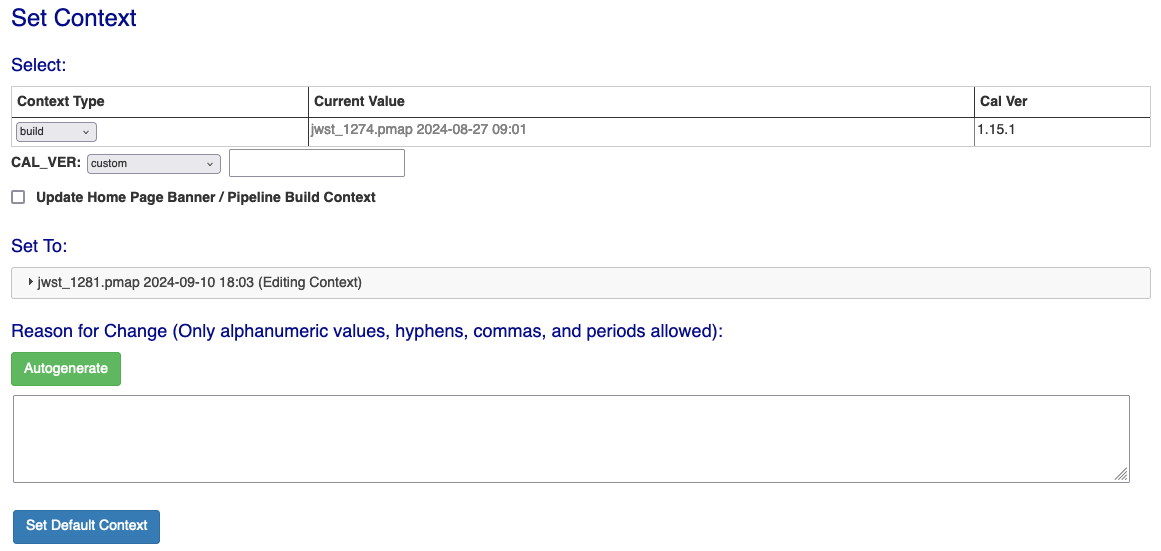
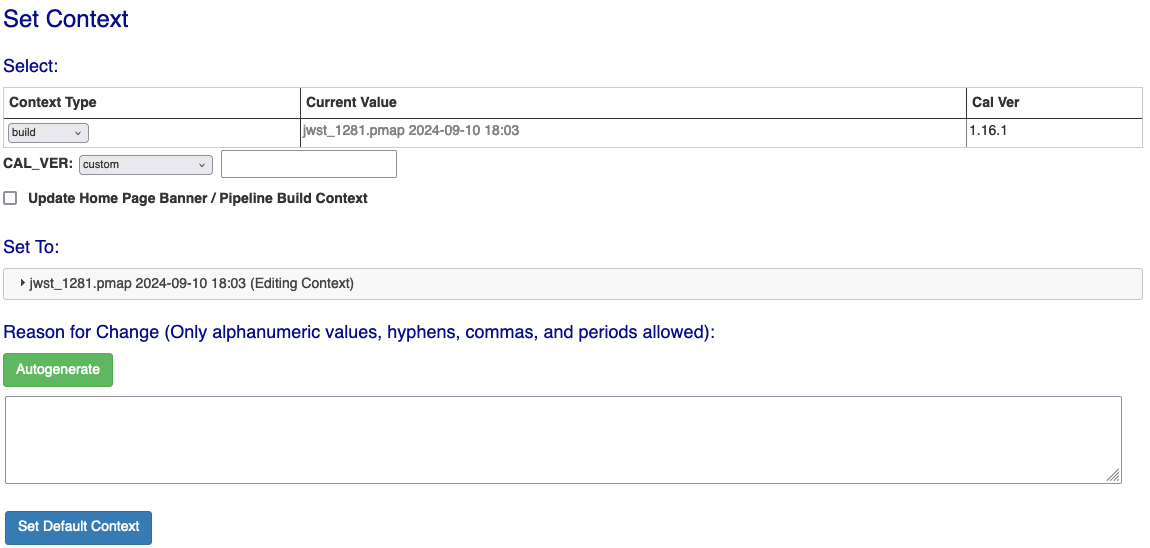
Added several more images and updates for build context.

diff --git a/documentation/crds_users_guide/source/web_site_use.rst b/documentation/crds_users_guide/source/web_site_use.rst
@@ -27,8 +27,23 @@ For HST
    :alt: hst home page of CRDS website
 
 
+
+<--Applicable only to JWST and RST
+
 Build Context Banner
 ----------------------
+The Build Context Banner displays the CRDS Context that was delivered with a DMS build, and
+is guaranteed to work with that build. It will be the latest context when a DMS build is installed,
+but will not be the most current after references get delivered and the latest context is updated.
+
+Clicking on the `build contexts` link will bring up a table that displays the JWST Calibration Code Version that was
+available when a particular context was delivered.
+
+.. figure:: images/web_context_build_table.png
+   :scale: 50 %
+   :alt: Build CRDS contexts
+
+-->
 
 Latest References
 ----------------------
@@ -83,11 +98,7 @@ Clicking on the `all contexts` link will bring up every context that has ever be
 <--Applicable only to JWST and RST
 
 Clicking on the `build contexts` link will bring up a table that displays the JWST Calibration Code Version that was
-available when a particular context was delivered.
-
-.. figure:: images/web_context_build_table.png
-   :scale: 50 %
-   :alt: Build CRDS contexts
+available when a particular context was delivered, just as it did in the banner.
 
 Clicking a `Cal Ver` link will take you to the github release of that JWST Calibration version:
 

diff --git a/documentation/crds_users_guide/source/pipeline_management.rst b/documentation/crds_users_guide/source/pipeline_management.rst
@@ -46,7 +46,7 @@ Set Context
 This section describes the website page used by operators to update the default
 CRDS context.
 
-*Set Context* enables setting the latest, edit, and versions contexts.
+*Set Context* enables setting the build, latest, edit, and versions contexts.
 
 .. figure:: images/web_set_context.png
    :scale: 50 %
@@ -55,7 +55,7 @@ CRDS context.
 CRDS enables contexts to be distributed before their adoption as the pipeline
 default.  Set Context is used to select the default pipeline (latest)
 context.
-   
+
 Setting the latest context changes state on the CRDS server which must be
 subsequently sync'ed to remote pipelines and users.
 
@@ -67,6 +67,19 @@ submissions.
 
 Setting the *versions* context defines the context used to locate the SYSTEM
 CALVER reference file used to define calibration software component versions.
+
+Selecting the *build* context for the Context Type changes the menu that you can use:
+
+.. figure:: images/web_set_build_context.png
+   :scale: 50 %
+   :alt: set build context inputs
+
+It adds a CAL_VER option that allows the user to set a pre-existing Cal Version, or a custom one
+that a user inputs.
+
+.. figure:: images/web_set_build_drop.png
+   :scale: 50 %
+   :alt: drop for build context inputs
 
 Sync Pipeline CRDS Cache
 ++++++++++++++++++++++++

diff --git a/documentation/crds_users_guide/source/library_use.rst b/documentation/crds_users_guide/source/library_use.rst
@@ -181,15 +181,15 @@ crds.get_default_context()
 ..........................
 
 `get_default_context()` returns the name of the pipeline mapping which is 
-currently the Latest Context
+currently the Build Context
 !!!!!!!!!!!!!!!!!!!
 
-*Latest Context* is the .pmap which is nominally in use by the pipeline.
-While it's common to make new files the latest as each context is added, it's
-possible for the *Latest Context* to lag behind the *Edit Context* when
-new files are being added but need additional testing in OPS. Deriving
-from the *Latest Context* is a crude kind of reversion since CRDS
-effectively branches around any existing subsequent contexts. use.
+*Build Context* is the .pmap which is nominally in use by the pipeline.
+While it's common to make new files become the *Latest* as each context is added, it's
+possible for the *Build Context* to lag behind the *Edit Context* when
+new files are being added but need additional testing in OPS, and the *Latest Context* when the
+new files are confirmed. Deriving from the *Build Context* is a crude kind of reversion since CRDS
+effectively branches around any existing subsequent contexts.
 
 The default context defines the matching rules used to determine best 
 reference files for a given set of parameters:
